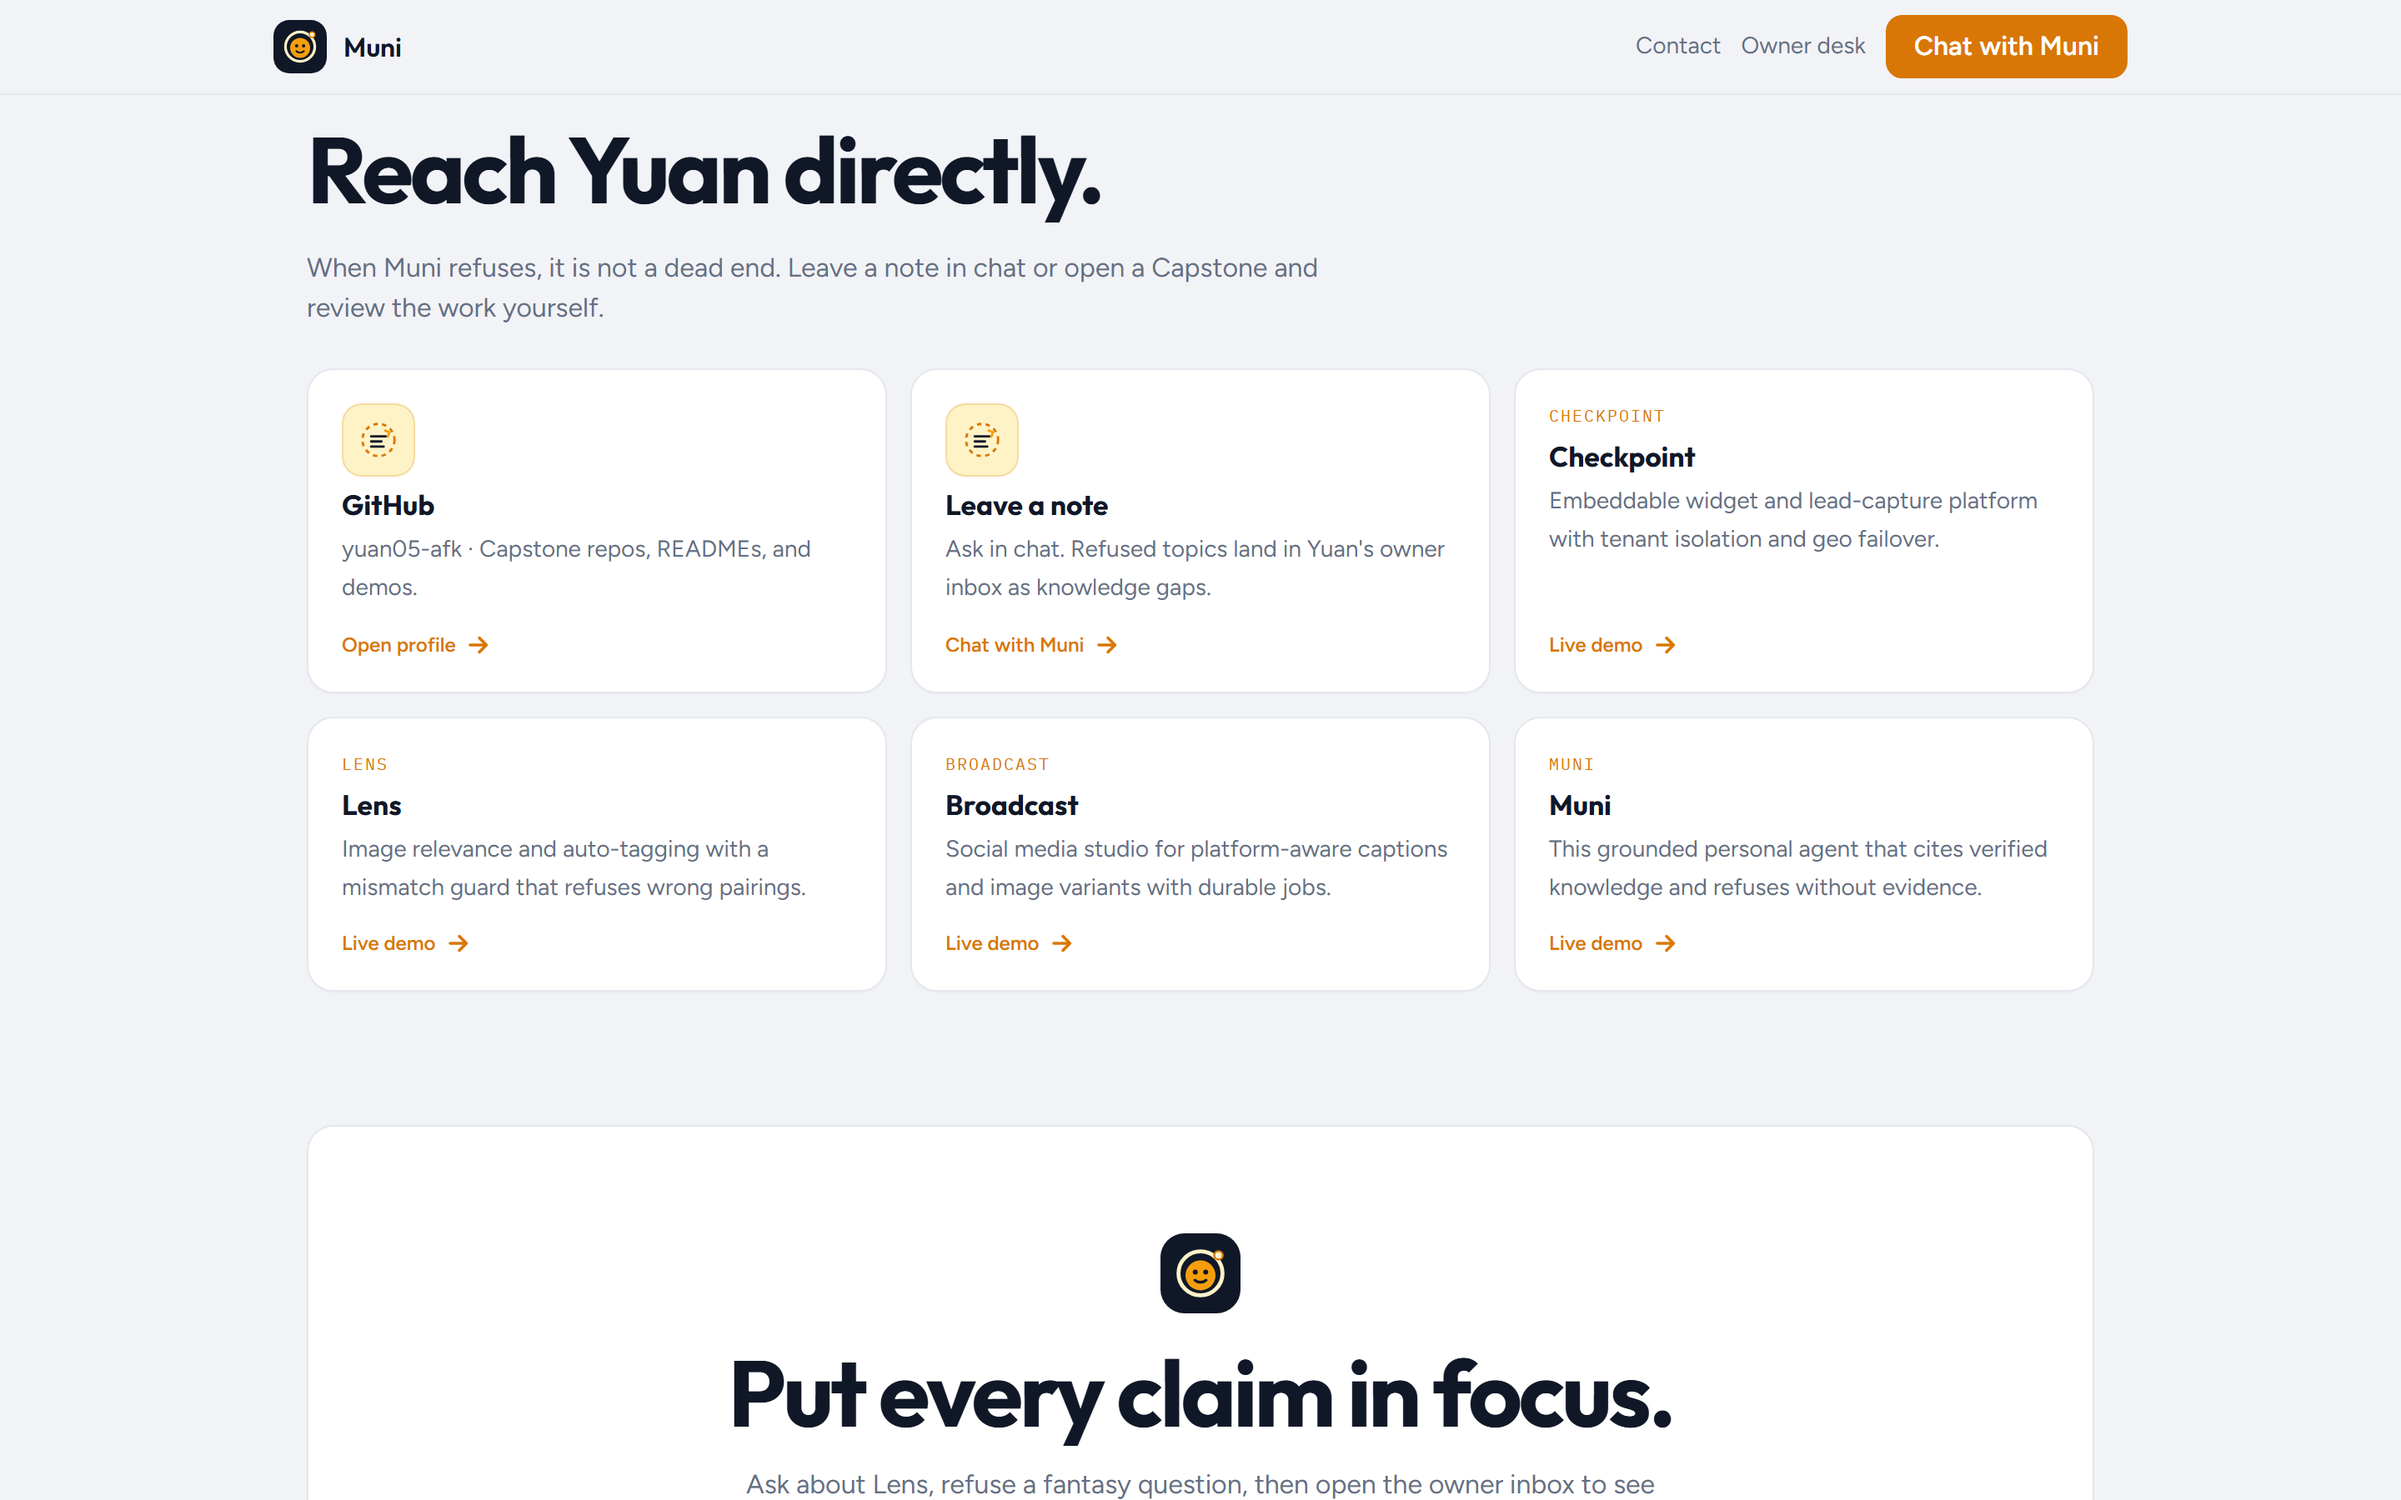
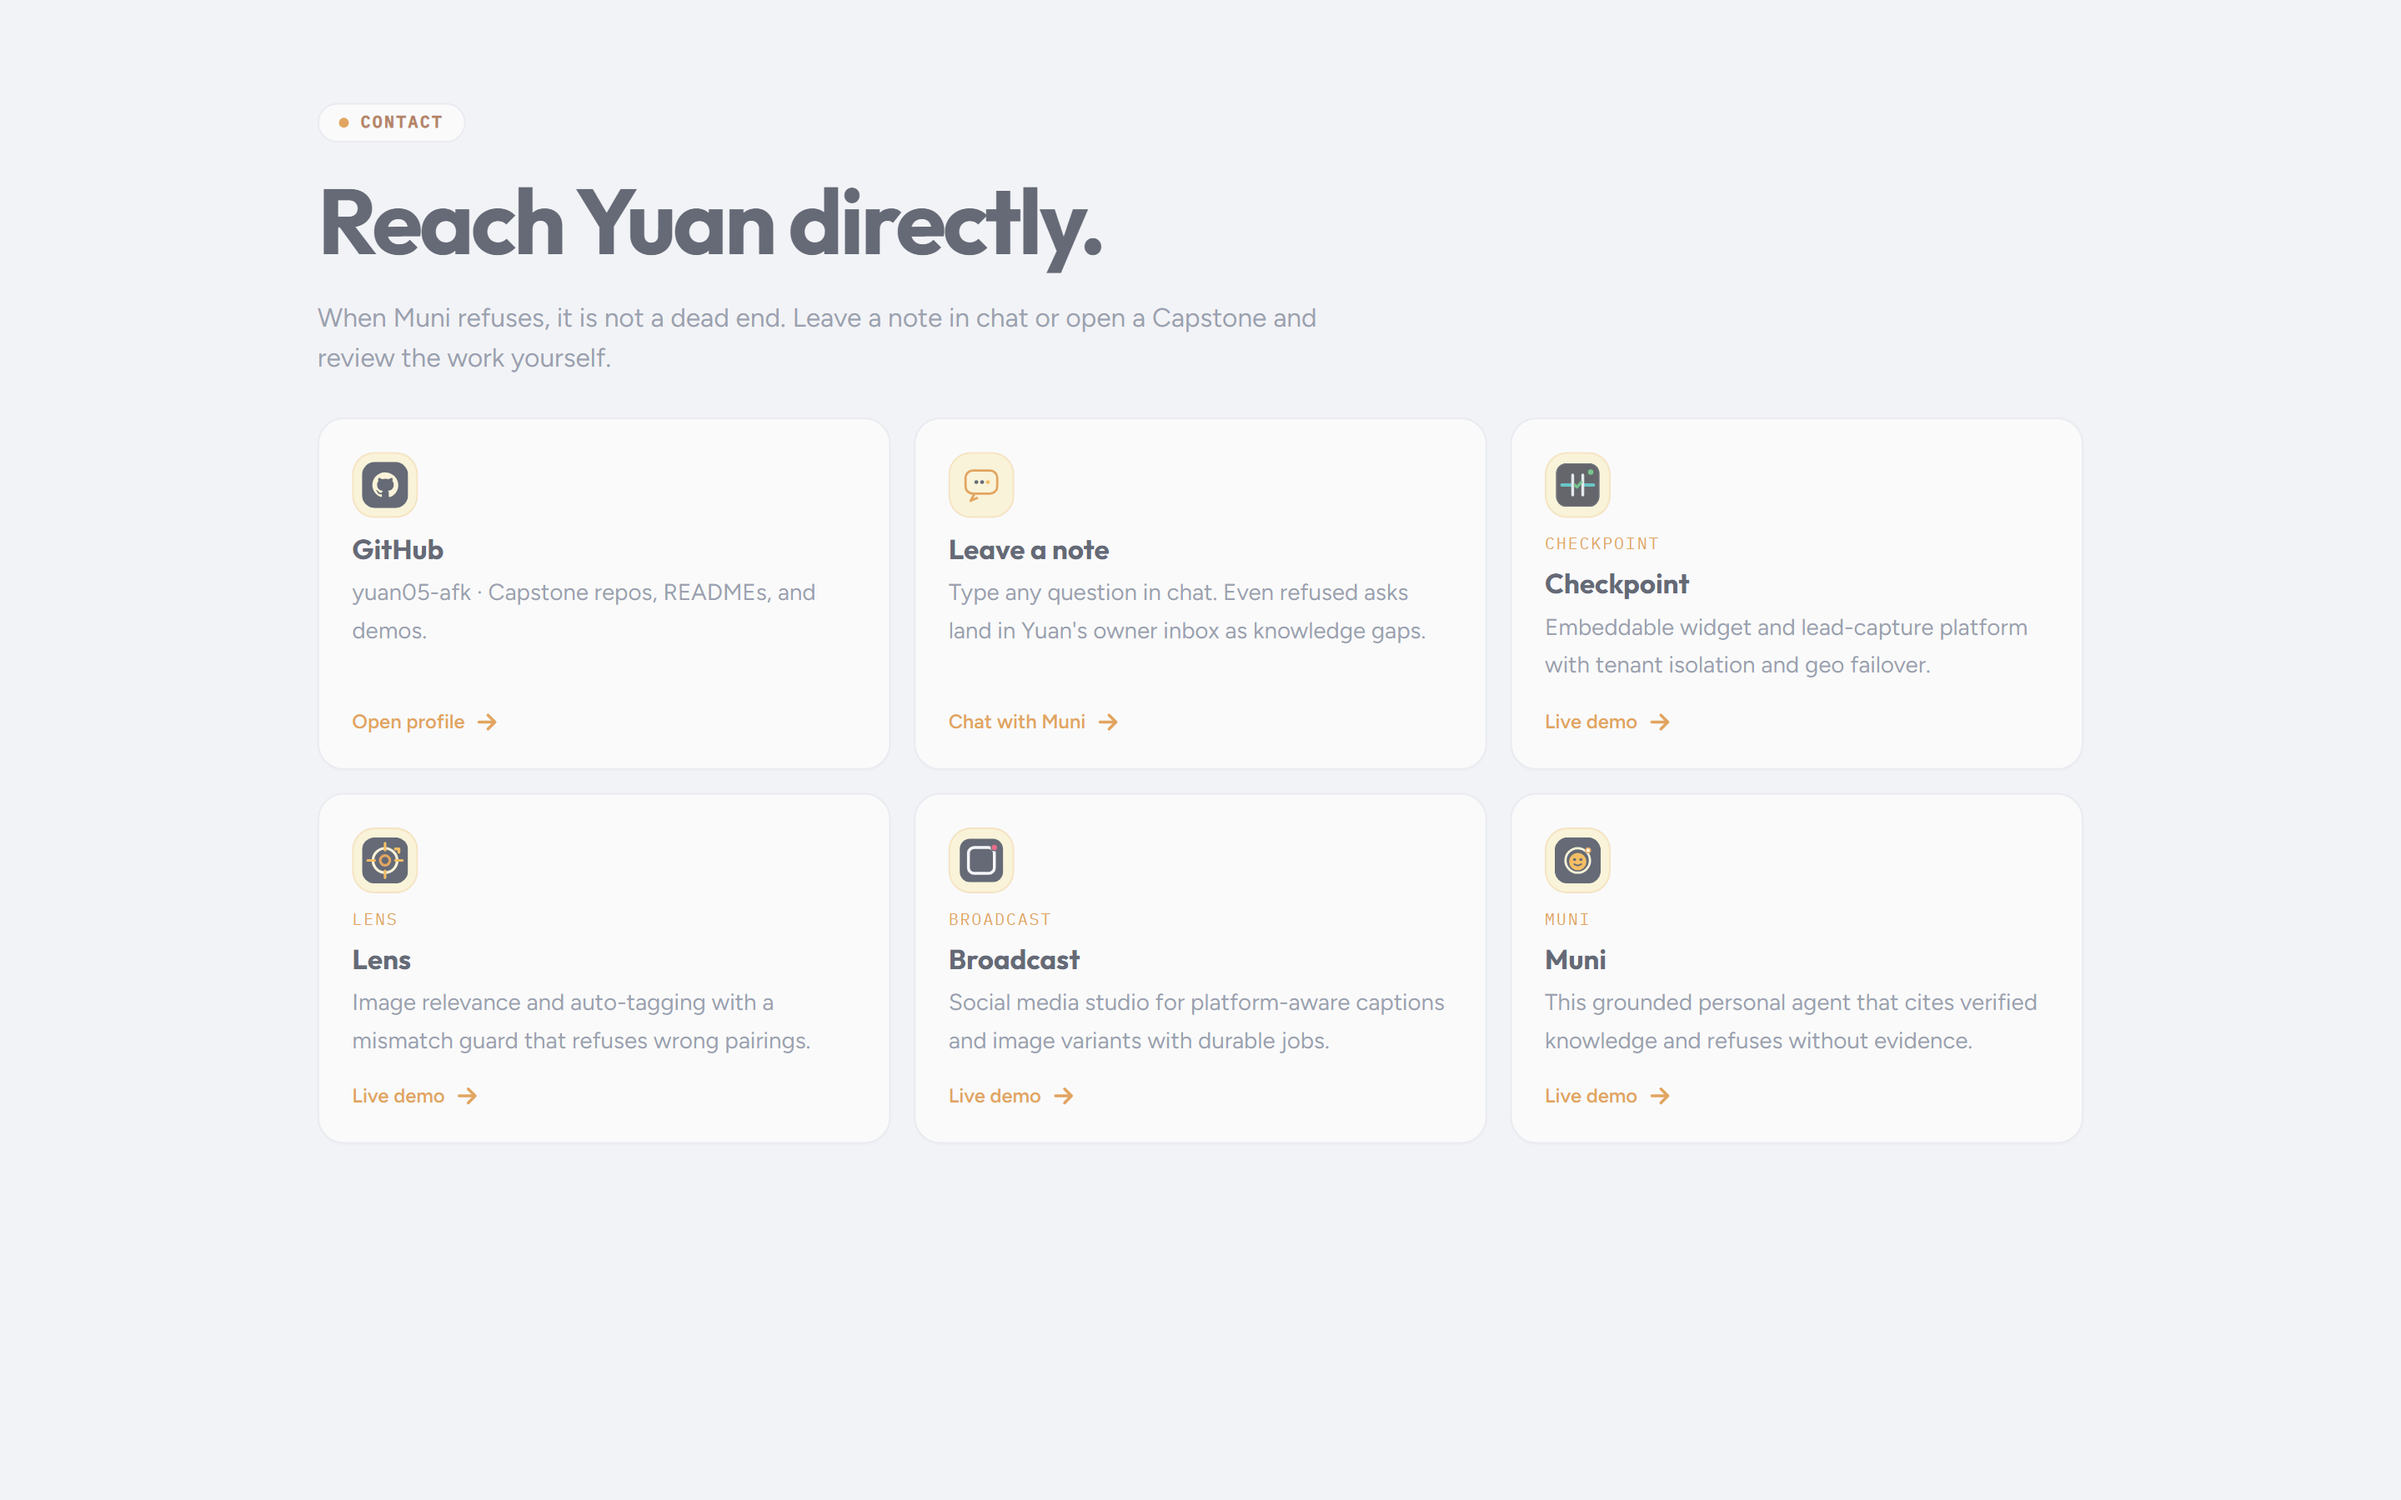
Fix landing content hidden under reduced motion and refresh README screenshots.
Scroll reveals dropped whileInView when useReducedMotion resolved after the first paint, so initial opacity 0 was never animated back and in-view sections stayed invisible. Keep the visible state always defined, derive the knowledge card stat from the fixture so it cannot drift, and recapture the shots against the current chat and desk UI.

diff --git a/components/LandingPage.tsx b/components/LandingPage.tsx
@@ -61,7 +61,7 @@ function HelloCard({ compact = false }: { compact?: boolean }) {
   );
 }
 
-export function LandingPage() {
+export function LandingPage({ knowledgeCount }: { knowledgeCount: number }) {
   const lenisRef = useLenis();
   const reduce = useReducedMotion();
   const { mode, exiting, showFlank, flankActive } = useHeroMode(1280);
@@ -210,7 +210,7 @@ export function LandingPage() {
         <div className="chapter-head">
           <motion.div
             initial={reduce ? false : { opacity: 0, y: 28 }}
-            whileInView={reduce ? undefined : { opacity: 1, y: 0 }}
+            whileInView={{ opacity: 1, y: 0 }}
             viewport={viewIn}
             transition={{ duration: 0.55, ease: EASE }}
           >
@@ -227,7 +227,7 @@ export function LandingPage() {
           {features.map(({ Icon, title, copy }, index) => (
             <motion.article
               key={title}
-              whileInView={reduce ? undefined : { opacity: 1, y: 0 }}
+              whileInView={{ opacity: 1, y: 0 }}
               initial={reduce ? false : { opacity: 0, y: 22 }}
               transition={{ delay: index * 0.06, duration: 0.45, ease: EASE }}
               viewport={viewIn}
@@ -249,7 +249,7 @@ export function LandingPage() {
         <div className="chapter-head">
           <motion.div
             initial={reduce ? false : { opacity: 0, y: 28 }}
-            whileInView={reduce ? undefined : { opacity: 1, y: 0 }}
+            whileInView={{ opacity: 1, y: 0 }}
             viewport={viewIn}
             transition={{ duration: 0.55, ease: EASE }}
           >
@@ -264,7 +264,7 @@ export function LandingPage() {
         </div>
         <div className="grid-2">
           <motion.article
-            whileInView={reduce ? undefined : { opacity: 1, y: 0 }}
+            whileInView={{ opacity: 1, y: 0 }}
             initial={reduce ? false : { opacity: 0, y: 18 }}
             viewport={viewIn}
             transition={{ duration: 0.45, ease: EASE }}
@@ -288,7 +288,7 @@ export function LandingPage() {
             </div>
           </motion.article>
           <motion.article
-            whileInView={reduce ? undefined : { opacity: 1, y: 0 }}
+            whileInView={{ opacity: 1, y: 0 }}
             initial={reduce ? false : { opacity: 0, y: 18 }}
             viewport={{ ...viewIn, amount: 0.18 }}
             transition={{ duration: 0.45, delay: reduce ? 0 : 0.05, ease: EASE }}
@@ -317,7 +317,7 @@ export function LandingPage() {
       <ScrollChapter className="chapter">
         <div className="grid-3">
           {[
-            ["35", "verified knowledge cards"],
+            [String(knowledgeCount), "verified knowledge cards"],
             ["4", "live Capstone demos"],
             ["0.80+", "eval floors"],
           ].map(([v, l], index) => (
@@ -325,7 +325,7 @@ export function LandingPage() {
               key={l}
               tabIndex={0}
               className="surface feature-card text-center"
-              whileInView={reduce ? undefined : { opacity: 1, y: 0 }}
+              whileInView={{ opacity: 1, y: 0 }}
               initial={reduce ? false : { opacity: 0, y: 16 }}
               transition={{ delay: index * 0.05, duration: 0.4, ease: EASE }}
               viewport={viewIn}
@@ -344,7 +344,7 @@ export function LandingPage() {
       <ScrollChapter className="chapter">
         <motion.div
           className="surface flex flex-col items-center p-8 text-center sm:p-16"
-          whileInView={reduce ? undefined : { opacity: 1, y: 0 }}
+          whileInView={{ opacity: 1, y: 0 }}
           initial={reduce ? false : { opacity: 0, y: 20 }}
           viewport={{ once: false, amount: 0.35 }}
           transition={{ duration: 0.5, ease: EASE }}

diff --git a/components/ContactSection.tsx b/components/ContactSection.tsx
@@ -73,7 +73,7 @@ export function ContactSection({
       <div className="chapter-head">
         <motion.div
           initial={reduce ? false : { opacity: 0, y: 28 }}
-          whileInView={reduce ? undefined : { opacity: 1, y: 0 }}
+          whileInView={{ opacity: 1, y: 0 }}
           viewport={viewIn}
           transition={{ duration: 0.55, ease: EASE }}
         >
@@ -95,7 +95,7 @@ export function ContactSection({
           rel="noopener noreferrer"
           className="surface contact-card focus-ring"
           initial={reduce ? false : { opacity: 0, y: 18 }}
-          whileInView={reduce ? undefined : { opacity: 1, y: 0 }}
+          whileInView={{ opacity: 1, y: 0 }}
           viewport={viewIn}
           transition={{ duration: 0.4, ease: EASE }}
           whileHover={reduce ? undefined : { y: -4 }}
@@ -116,7 +116,7 @@ export function ContactSection({
           href="/chat"
           className="surface contact-card focus-ring"
           initial={reduce ? false : { opacity: 0, y: 18 }}
-          whileInView={reduce ? undefined : { opacity: 1, y: 0 }}
+          whileInView={{ opacity: 1, y: 0 }}
           viewport={viewIn}
           transition={{ duration: 0.4, delay: reduce ? 0 : 0.04, ease: EASE }}
           whileHover={reduce ? undefined : { y: -4 }}
@@ -141,7 +141,7 @@ export function ContactSection({
             rel="noopener noreferrer"
             className="surface contact-card focus-ring"
             initial={reduce ? false : { opacity: 0, y: 18 }}
-            whileInView={reduce ? undefined : { opacity: 1, y: 0 }}
+            whileInView={{ opacity: 1, y: 0 }}
             viewport={viewIn}
             transition={{ duration: 0.4, delay: reduce ? 0 : 0.06 + index * 0.04, ease: EASE }}
             whileHover={reduce ? undefined : { y: -4 }}

diff --git a/app/page.tsx b/app/page.tsx
@@ -1,5 +1,8 @@
 import { LandingPage } from "@/components/LandingPage";
+import { PERSONA_CARDS } from "@/fixtures/persona/cards";
 
 export default function Page() {
-  return <LandingPage />;
+  // Derived at build time from the knowledge source of truth so the landing
+  // stat cannot drift when cards are added.
+  return <LandingPage knowledgeCount={PERSONA_CARDS.length} />;
 }
